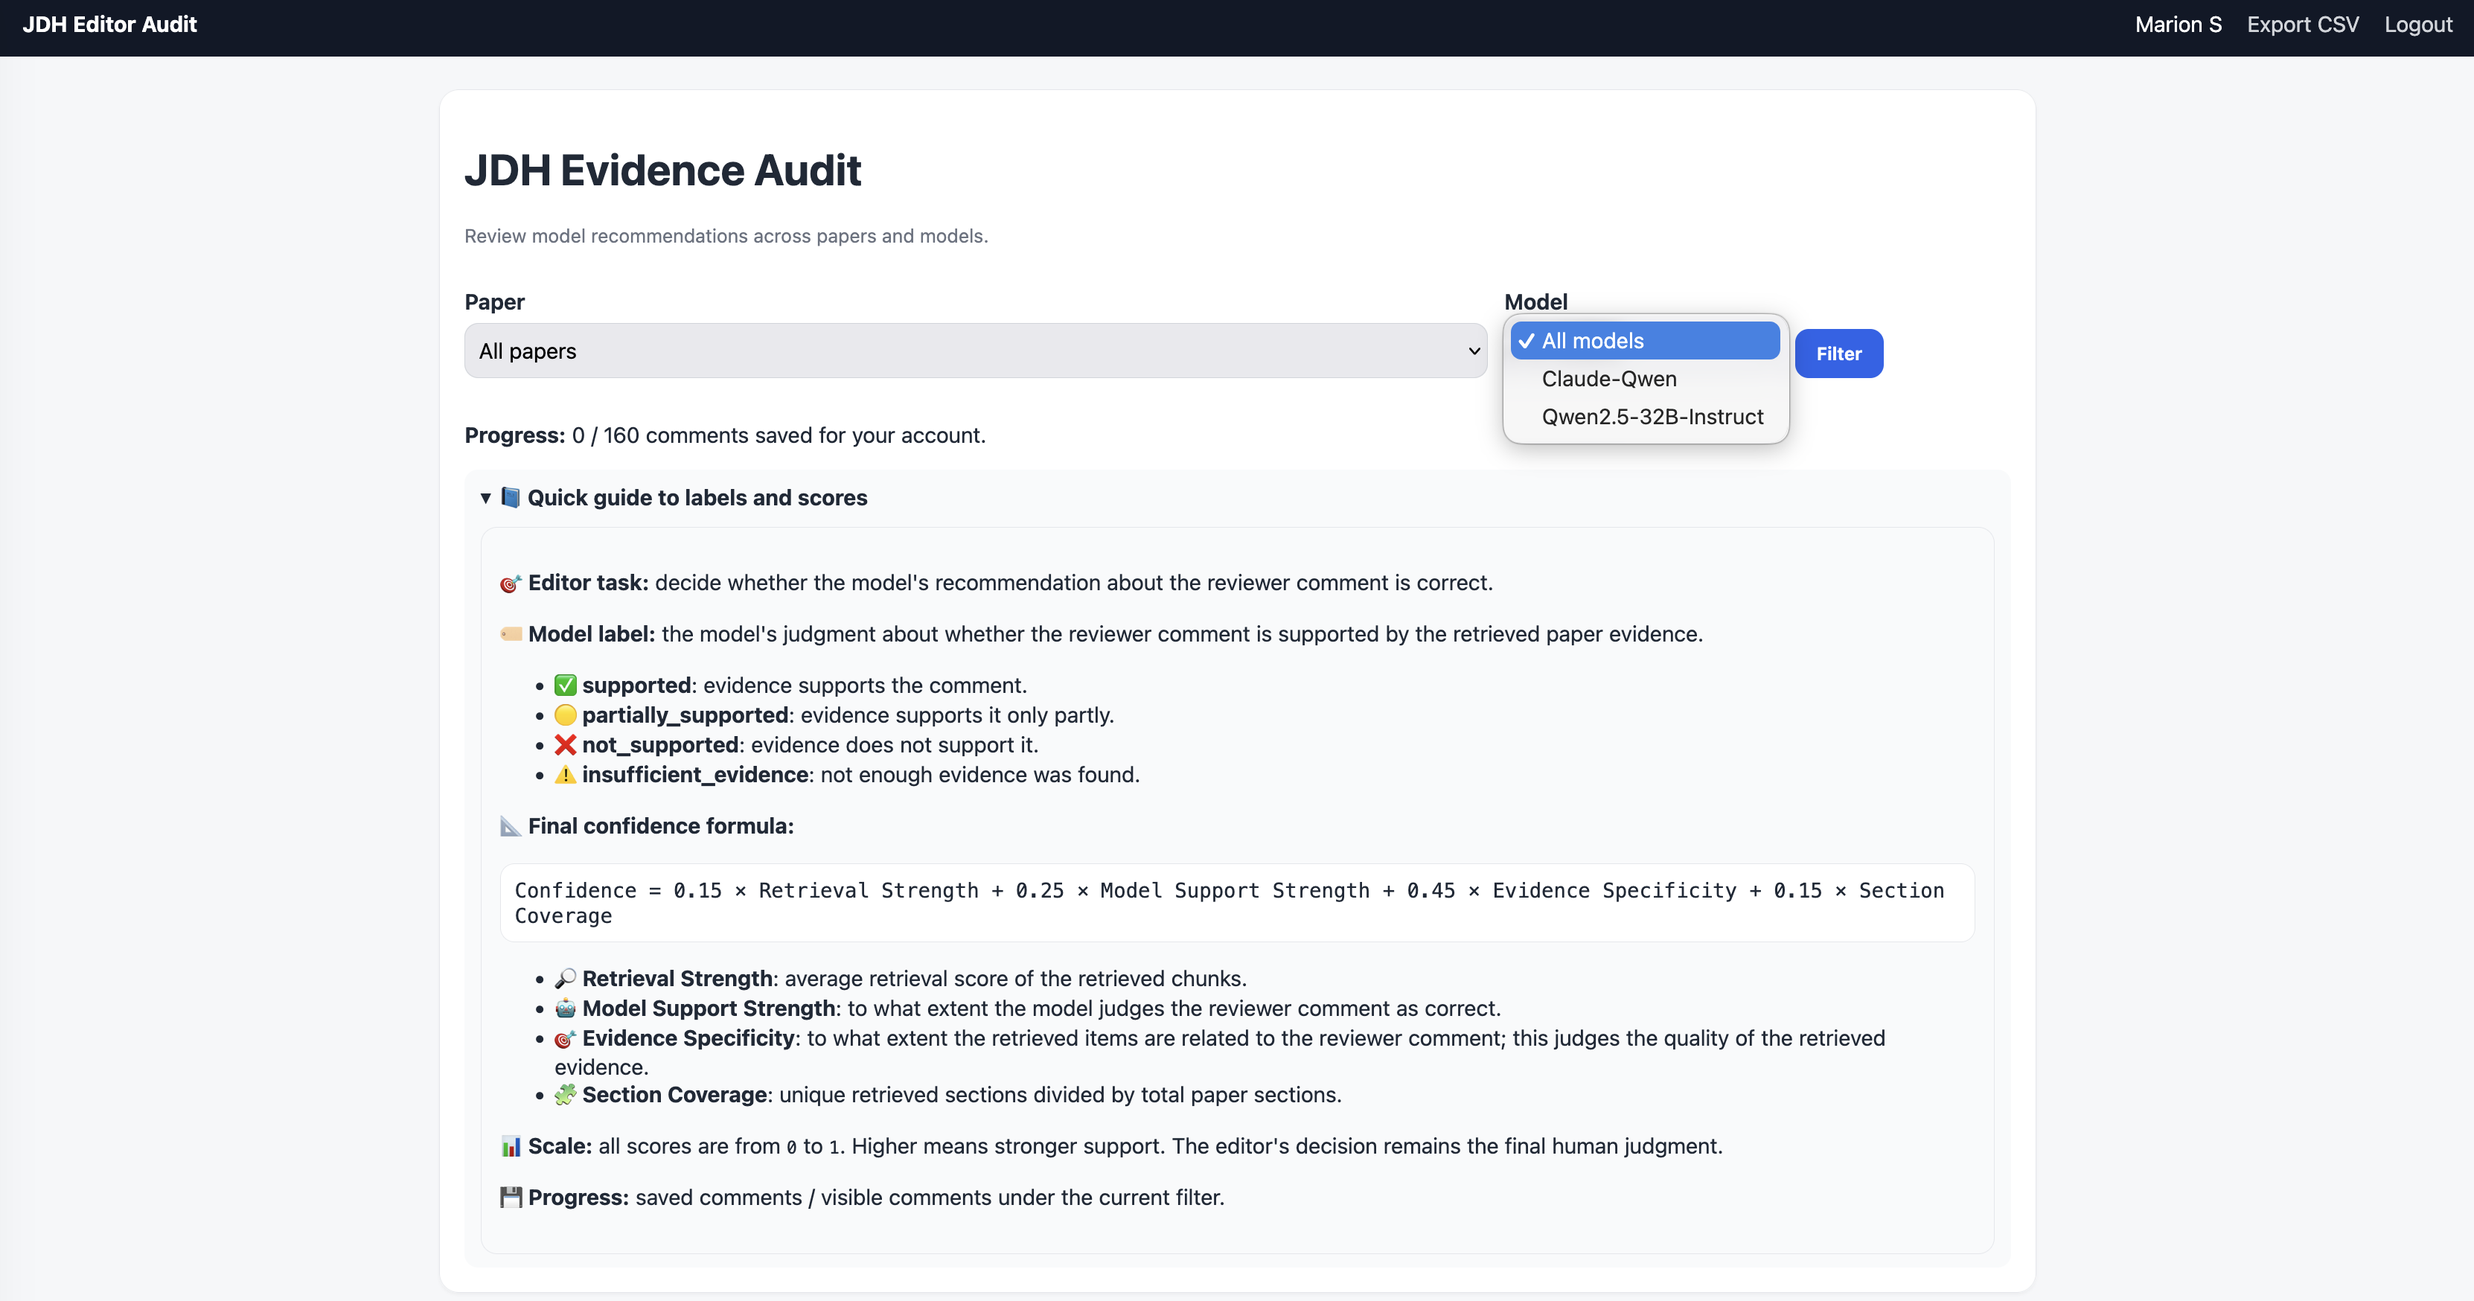
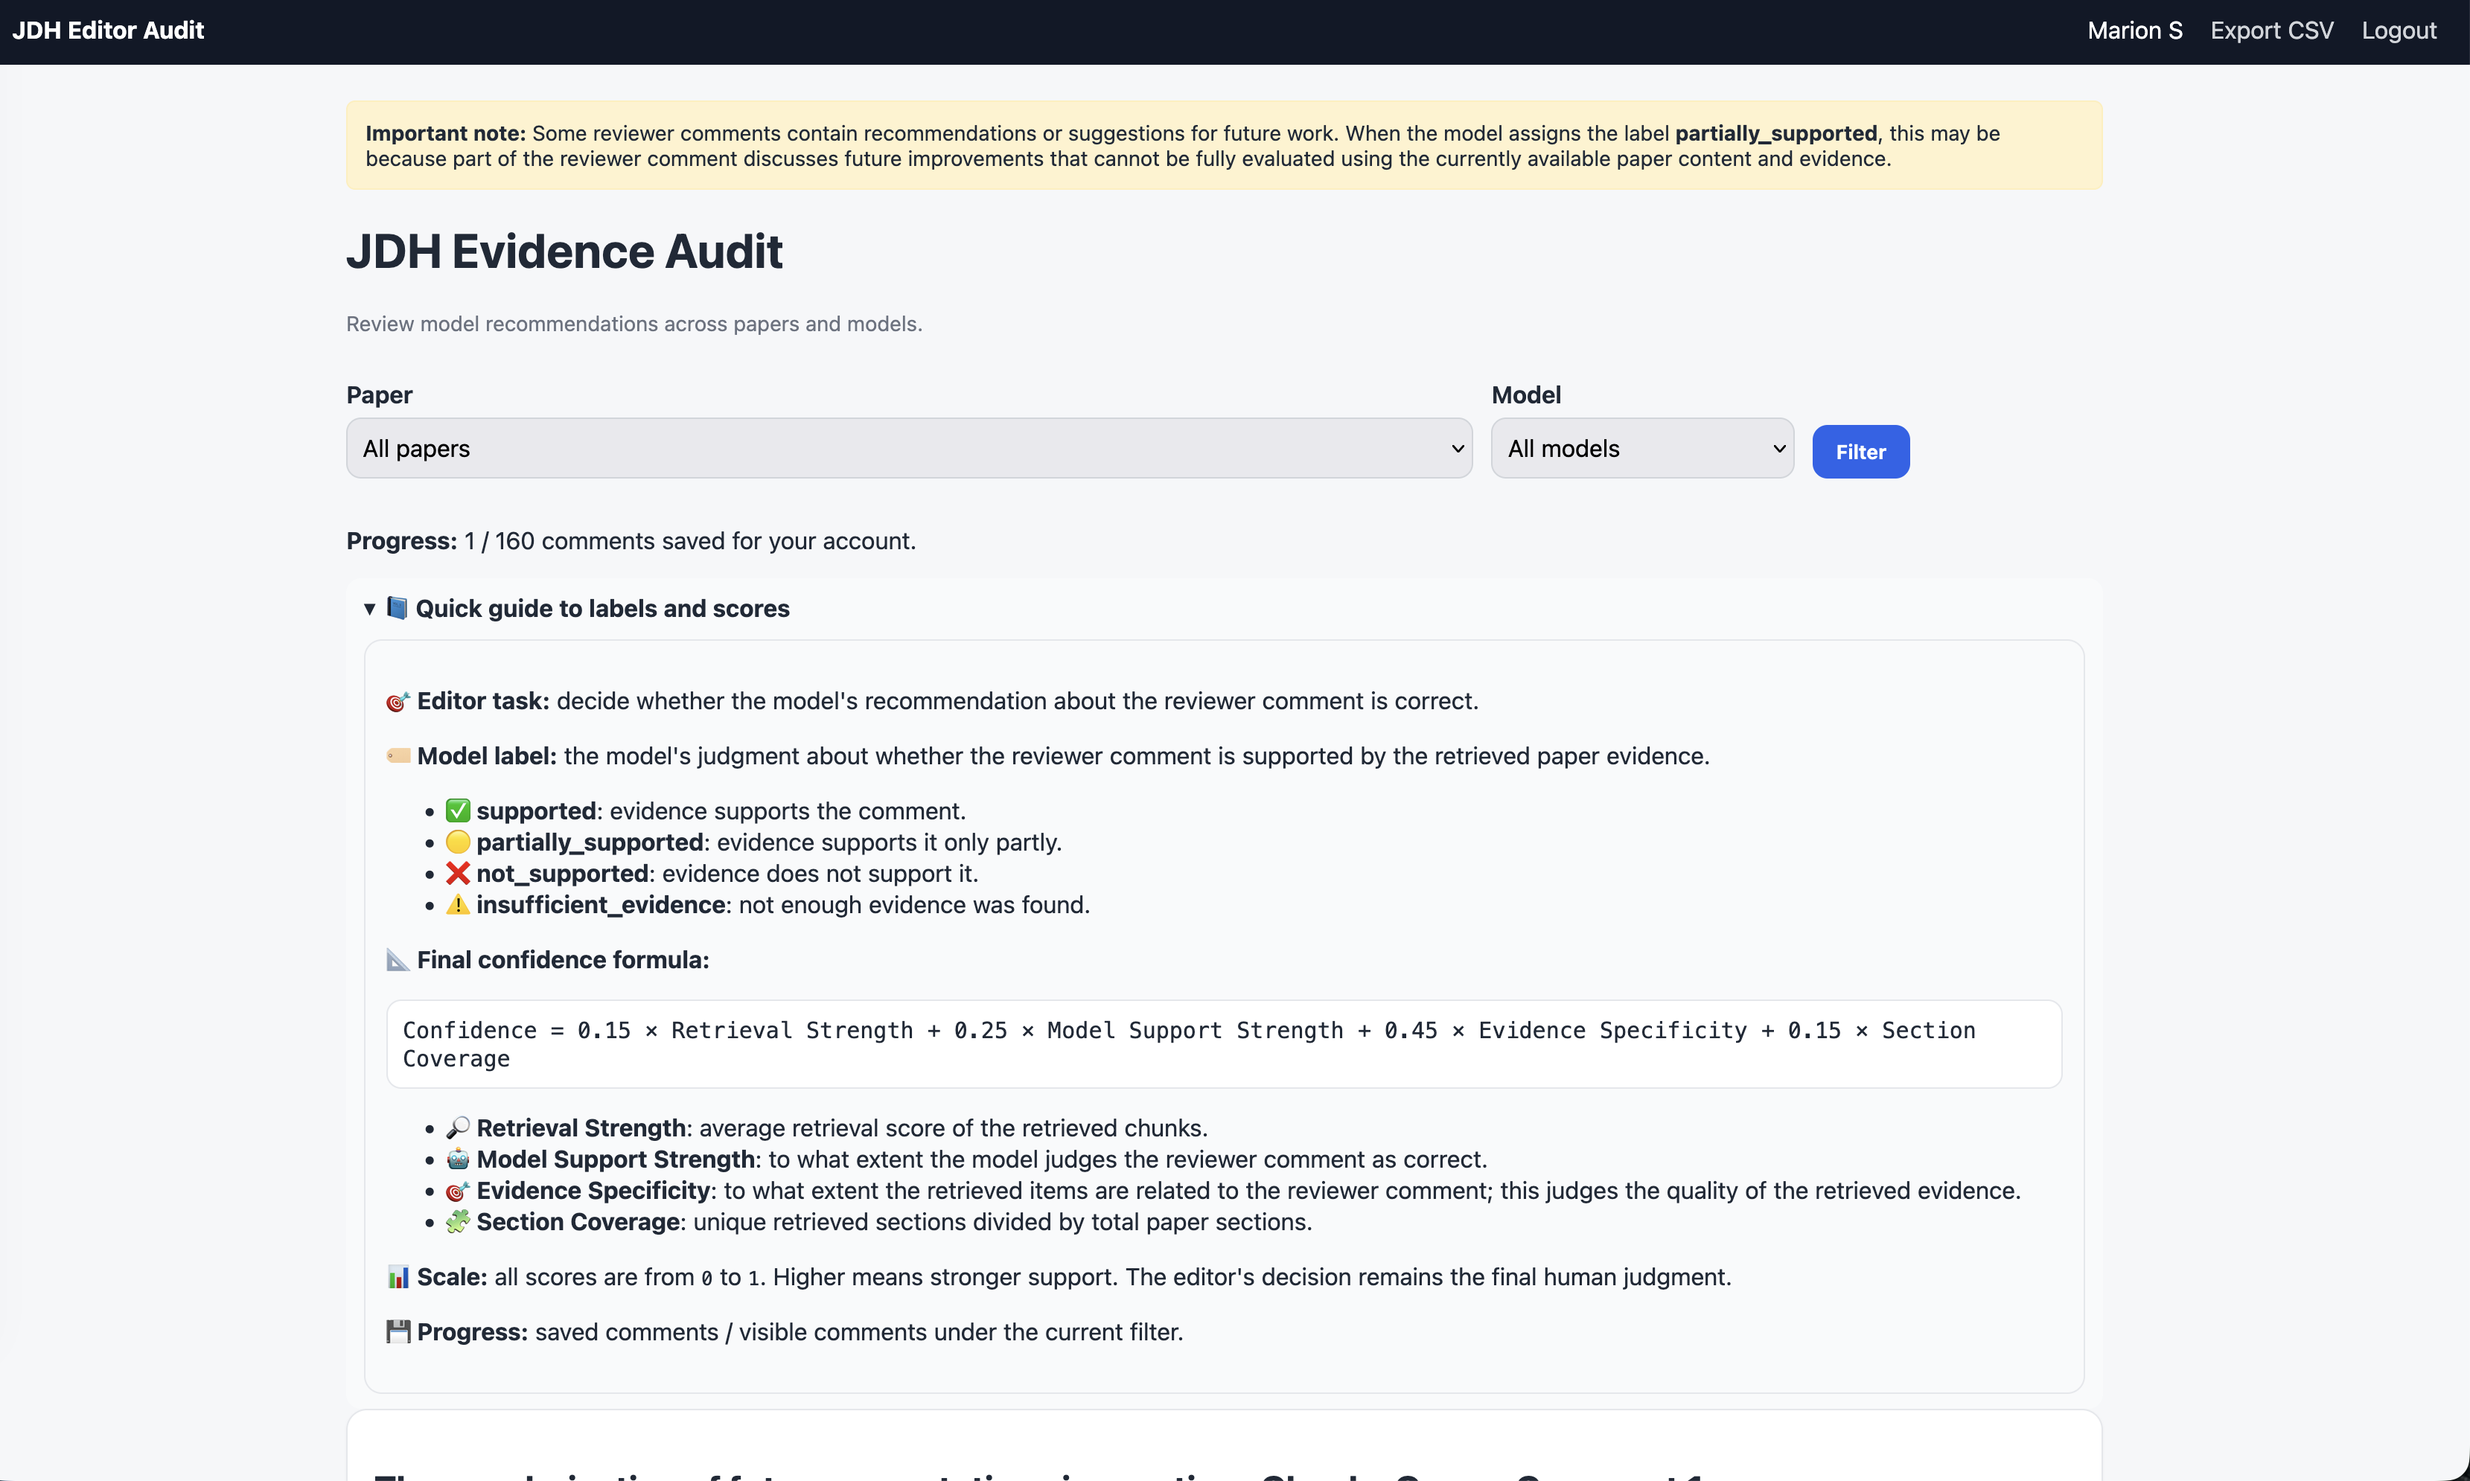
(feat) adding placeholder for Mehrdad

diff --git a/docs/index.html b/docs/index.html
@@ -249,31 +249,58 @@ Marion Salaün <a href="https://orcid.org/0009-0005-3624-823X" class="quarto-tit
 
 <section id="infrastructure" class="title-slide slide level1 center">
 <h1>Infrastructure</h1>
+<div class="columns">
+<div class="column" style="width:50%;">
 <p><strong>Grid5000</strong> is a large scale and flexible testbed for experiment-driven research in all areas of computer science.</p>
+</div><div class="column" style="width:50%;">
+<p><img data-src="./img/16_06_26/grid5000.png"></p>
+</div></div>
+</section>
 
-<img data-src="./img/16_06_26/grid5000.png" class="r-stretch"></section>
+<section id="section" class="title-slide slide level1 center">
+<h1></h1>
 
-<section id="pipeline" class="title-slide slide level1 center">
-<h1>Pipeline</h1>
-<p><em>image placeholder</em></p>
-
-<img data-src="./img/16_06_26/pipeline.png" class="r-stretch"></section>
+<img data-src="./img/16_06_26/pipeline.png" class="quarto-figure quarto-figure-center r-stretch"></section>
 
 <section id="jdh-evidence-audit-app" class="title-slide slide level1 center">
 <h1>JDH evidence audit app</h1>
 
 <img data-src="./img/16_06_26/JDH_evidence_audit_app_1.png" class="r-stretch"></section>
 
-<section id="section" class="title-slide slide level1 center">
+<section id="section-1" class="title-slide slide level1 center">
 <h1></h1>
 
 <img data-src="./img/16_06_26/JDH_evidence_audit_app_2.png" class="r-stretch"></section>
 
+<section id="section-2" class="title-slide slide level1 center">
+<h1></h1>
+
+<img data-src="./img/16_06_26/JDH_evidence_audit_app_3.png" class="r-stretch"></section>
+
+<section id="section-3" class="title-slide slide level1 center">
+<h1></h1>
+<p><img data-src="./img/16_06_26/JDH_evidence_audit_app_4.png"> <img data-src="./img/16_06_26/JDH_evidence_audit_app_5.png"></p>
+</section>
+
 <section id="results" class="title-slide slide level1 center">
 <h1>Results</h1>
-<p><em>TODO: Mehrdad opinions’ to be added</em></p>
 
-<img data-src="./img/16_06_26/output.png" class="r-stretch"><aside class="notes">
+</section>
+
+<section id="section-4" class="title-slide slide level1 center">
+<h1></h1>
+<div class="columns">
+<div class="column" style="width:50%;">
+<p><img data-src="./img/16_06_26/output.png"></p>
+</div><div class="column" style="width:50%;">
+<ul>
+<li>text placeholder</li>
+<li>text placeholder</li>
+<li>text placeholder</li>
+<li>text placeholder</li>
+</ul>
+</div></div>
+<aside class="notes">
 <p>Mehrdad</p>
 <style type="text/css">
         span.MJX_Assistive_MathML {
@@ -288,20 +315,50 @@ Marion Salaün <a href="https://orcid.org/0009-0005-3624-823X" class="quarto-tit
       }</style></aside>
 </section>
 
-<section id="section-1" class="title-slide slide level1 center">
+<section id="section-5" class="title-slide slide level1 center">
 <h1></h1>
+<div class="columns">
+<div class="column" style="width:50%;">
+<p><img data-src="./img/16_06_26/output1.png"></p>
+</div><div class="column" style="width:50%;">
+<ul>
+<li>text placeholder</li>
+<li>text placeholder</li>
+<li>text placeholder</li>
+<li>text placeholder</li>
+</ul>
+</div></div>
+</section>
 
-<img data-src="./img/16_06_26/output1.png" class="r-stretch"></section>
-
-<section id="section-2" class="title-slide slide level1 center">
+<section id="section-6" class="title-slide slide level1 center">
 <h1></h1>
+<div class="columns">
+<div class="column" style="width:50%;">
+<p><img data-src="./img/16_06_26/output2.png"></p>
+</div><div class="column" style="width:50%;">
+<ul>
+<li>text placeholder</li>
+<li>text placeholder</li>
+<li>text placeholder</li>
+<li>text placeholder</li>
+</ul>
+</div></div>
+</section>
 
-<img data-src="./img/16_06_26/output2.png" class="r-stretch"></section>
-
-<section id="section-3" class="title-slide slide level1 center">
+<section id="section-7" class="title-slide slide level1 center">
 <h1></h1>
-
-<img data-src="./img/16_06_26/output3.png" class="r-stretch"></section>
+<div class="columns">
+<div class="column" style="width:50%;">
+<p><img data-src="./img/16_06_26/output3.png"></p>
+</div><div class="column" style="width:50%;">
+<ul>
+<li>text placeholder</li>
+<li>text placeholder</li>
+<li>text placeholder</li>
+<li>text placeholder</li>
+</ul>
+</div></div>
+</section>
 
 <section id="what-should-be-future-steps" class="title-slide slide level1 center">
 <h1>What should be future steps ?</h1>
@@ -323,8 +380,13 @@ Marion Salaün <a href="https://orcid.org/0009-0005-3624-823X" class="quarto-tit
 
 <section id="proof-of-concept-poc" class="title-slide slide level1 center">
 <h1>Proof of Concept (POC)</h1>
-<p>…..</p>
-<aside class="notes">
+
+</section>
+
+<section id="section-8" class="title-slide slide level1 center">
+<h1></h1>
+
+<img data-src="./img/16_06_26/POC_review.png" class="quarto-figure quarto-figure-center r-stretch"><aside class="notes">
 
 <style type="text/css">
         span.MJX_Assistive_MathML {
